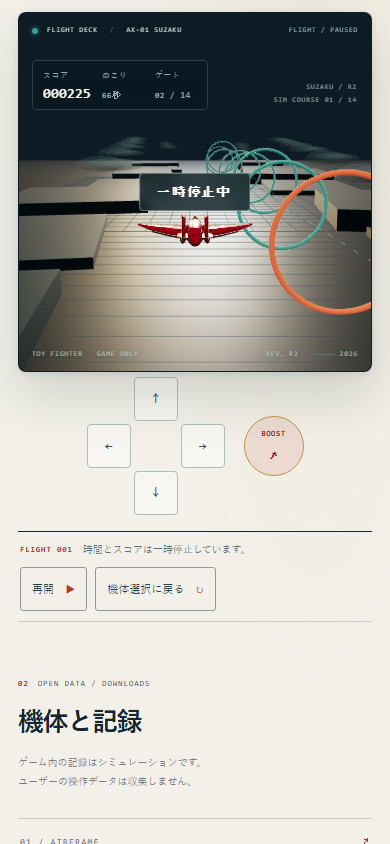
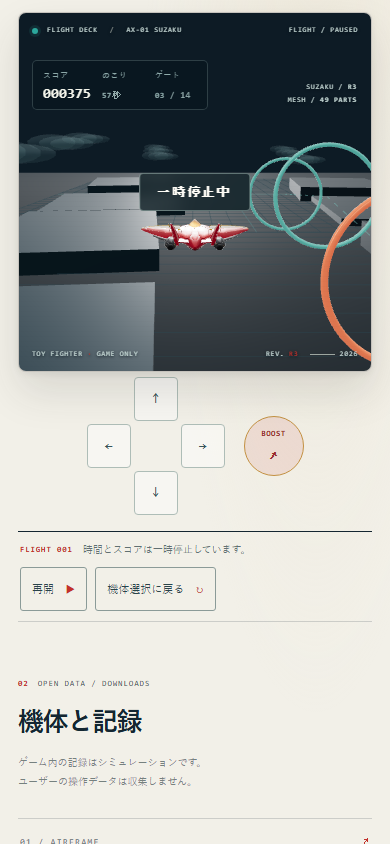
Record verified SUZAKU r3 public release [skip ci]

diff --git a/docs/reproduce.md b/docs/reproduce.md
@@ -43,7 +43,7 @@ npx playwright install chromium
 npm run test:browser
 ~~~
 
-`npm test` はリプレイを含むNodeテスト15件すべてに合格しました。本番ビルドも合格しましたが、JavaScriptチャンクサイズ572 kBの警告が1件あります。カタログ照合は公開ファイル20件とハッシュ付きソース21件で合格しました。FreeCAD形状、ネイティブ形式・STEP・STLの再読み込み、主翼の対称性、メッシュの決定性確認も合格しています。自動Chromium確認は12/12件に合格しました。タッチ操作はエミュレーションで、スマートフォン実機では未確認です。[成功レポート](../evidence/browser-automated.json)と、初回のモバイルタッチ確認が停止した[失敗レポート](../evidence/suzaku-r3-browser-first-failure.json)を参照してください。CIと公開サイトの確認は未実施です。r2の確認記録は[履歴フォルダー](../evidence/history/suzaku-r2/)にあります。
+`npm test` はリプレイを含むNodeテスト15件すべてに合格しました。本番ビルドも合格しましたが、JavaScriptチャンクサイズ572 kBの警告が1件あります。カタログ照合は公開ファイル20件とハッシュ付きソース21件で合格しました。FreeCAD形状、ネイティブ形式・STEP・STLの再読み込み、主翼の対称性、メッシュの決定性確認も合格しています。自動Chromium確認は12/12件に合格しました。タッチ操作はエミュレーションで、スマートフォン実機では未確認です。[成功レポート](../evidence/browser-automated.json)と、初回のモバイルタッチ確認が停止した[失敗レポート](../evidence/suzaku-r3-browser-first-failure.json)を参照してください。[GitHub CIとPages公開](https://github.com/onizuka-agi-co/onizuka-aero-agi-co/actions/runs/39448567448)が成功しました。公開サイトでもブラウザ12項目が通過し、匿名取得した42ファイルのサイズとSHA-256が一致しました（[操作記録](../evidence/browser-public.json)、[照合記録](../evidence/publication.json)）。r2の確認記録は[履歴フォルダー](../evidence/history/suzaku-r2/)にあります。
 
 standardとlongwingをC案画像と見比べ、真上、側面、前方3/4、後方3/4から肩の量感、キャノピー、翼面、側面の暗色部、後部ポッド、尾翼を確認します。最終確認では、架空のコレクショントイとして6つの主要条件を満たすと評価されました。これは定性的評価であり、ユーザー承認や写真のような完全再現を意味しません。[コンセプト確認記録](../evidence/suzaku-concept-review.json)と[最終CADビュー](../evidence/suzaku-r3-cad-final.jpg)に記録しています。形状レポートの合格だけで、C案との見た目の近さを判定しないでください。
 
@@ -62,7 +62,7 @@ node .\scripts\verify-public.mjs
 
 ### 記録の解釈
 
-形状値は任意設計単位です。アーケード記録は模擬ゲーム状態です。どちらも実際の飛行性能や航空宇宙工学の評価として解釈しないでください。Chromiumのタッチ確認はエミュレーションで、スマートフォン実機とは異なります。r3の形状、Nodeテスト、本番ビルド、カタログ、ローカルブラウザ確認は合格しました。CIと公開確認は未実施です。r2の結果は[履歴フォルダー](../evidence/history/suzaku-r2/)で確認できます。
+形状値は任意設計単位です。アーケード記録は模擬ゲーム状態です。どちらも実際の飛行性能や航空宇宙工学の評価として解釈しないでください。Chromiumのタッチ確認はエミュレーションで、スマートフォン実機とは異なります。r3の形状、Nodeテスト、本番ビルド、カタログ、ローカルブラウザ確認は合格しました。[GitHub CIとPages公開](https://github.com/onizuka-agi-co/onizuka-aero-agi-co/actions/runs/39448567448)が成功しました。公開サイトでもブラウザ12項目が通過し、匿名取得した42ファイルのサイズとSHA-256が一致しました（[操作記録](../evidence/browser-public.json)、[照合記録](../evidence/publication.json)）。r2の結果は[履歴フォルダー](../evidence/history/suzaku-r2/)で確認できます。
 
 ## English
 
@@ -105,7 +105,7 @@ npx playwright install chromium
 npm run test:browser
 ~~~
 
-All 15 Node tests passed, including replay tests. The production build passed with one 572 kB JavaScript chunk-size warning. Catalog verification passed for 20 public files and 21 hashed source entries. FreeCAD shape checks, native/STEP/STL reopen checks, mirrored-wing symmetry, and deterministic mesh regeneration passed. Automated Chromium checks passed 12/12 with an emulated touch viewport; see the [passing browser report](../evidence/browser-automated.json). Physical phones are untested. An initial mobile-touch failure is retained in the [first-failure report](../evidence/suzaku-r3-browser-first-failure.json). `npm run test:browser` uses the built app and starts its own Vite preview on port 4188. You do not need to start `npm run preview` separately. CI and public-site verification are pending. The archived r2 results do not verify the current revision.
+All 15 Node tests passed, including replay tests. The production build passed with one 572 kB JavaScript chunk-size warning. Catalog verification passed for 20 public files and 21 hashed source entries. FreeCAD shape checks, native/STEP/STL reopen checks, mirrored-wing symmetry, and deterministic mesh regeneration passed. Automated Chromium checks passed 12/12 with an emulated touch viewport; see the [passing browser report](../evidence/browser-automated.json). Physical phones are untested. An initial mobile-touch failure is retained in the [first-failure report](../evidence/suzaku-r3-browser-first-failure.json). `npm run test:browser` uses the built app and starts its own Vite preview on port 4188. You do not need to start `npm run preview` separately. [GitHub CI and Pages deployment](https://github.com/onizuka-agi-co/onizuka-aero-agi-co/actions/runs/39448567448) passed for r3. All 12 browser checks passed on the public site, and 42 anonymous downloads matched byte sizes and SHA-256 hashes. See the [browser report](../evidence/browser-public.json) and [publication record](../evidence/publication.json). The archived r2 results do not verify the current revision.
 
 Compare `standard` and `longwing` with the selected C concept from the top, side, front three-quarter, and rear three-quarter views. Check shoulder volume, canopy, wing panels, dark side recesses, rear pods, and fins. The final qualitative review accepted all six salient criteria for a fictional toy interpretation; it does not claim user approval or exact photoreal reproduction. See the [concept review](../evidence/suzaku-concept-review.json) and [final CAD views](../evidence/suzaku-r3-cad-final.jpg). A passing geometry report alone does not establish visual similarity to the concept.
 
@@ -124,4 +124,4 @@ node .\scripts\verify-public.mjs
 
 ### Interpret the records
 
-Geometry values use arbitrary design units. Arcade records are simulated game state. Do not interpret either as actual flight performance or aerospace engineering results. R3 geometry, Node, build, catalog, and local Chromium checks passed. CI and publication verification are pending. The [archived r2 records](../evidence/history/suzaku-r2/) describe the earlier revision only.
+Geometry values use arbitrary design units. Arcade records are simulated game state. Do not interpret either as actual flight performance or aerospace engineering results. R3 geometry, Node, build, catalog, and local Chromium checks passed. [GitHub CI and Pages deployment](https://github.com/onizuka-agi-co/onizuka-aero-agi-co/actions/runs/39448567448) passed for r3. All 12 browser checks passed on the public site, and 42 anonymous downloads matched byte sizes and SHA-256 hashes. See the [browser report](../evidence/browser-public.json) and [publication record](../evidence/publication.json). The [archived r2 records](../evidence/history/suzaku-r2/) describe the earlier revision only.

diff --git a/README.md b/README.md
@@ -1,6 +1,6 @@
 # ONIZUKA AERO AGI Co.
 
-[日本語](README.ja.md) · [Published r2 game](https://onizuka-agi-co.github.io/onizuka-aero-agi-co/) · [Published r2 CAD preview](https://onizuka-agi-co.github.io/onizuka-aero-agi-co/assets/ax01/standard/preview.svg)
+[日本語](README.ja.md) · [Play SUZAKU r3](https://onizuka-agi-co.github.io/onizuka-aero-agi-co/) · [SUZAKU r3 CAD preview](https://onizuka-agi-co.github.io/onizuka-aero-agi-co/assets/ax01/standard/preview.svg)
 
 ONIZUKA AERO AGI Co. publishes original aviation-themed digital art, geometry checks, and a civilian arcade game as reproducible artifacts. A human mission owner sets the mission and publication policy.
 
@@ -18,11 +18,11 @@ The r3 [geometry report](public/data/geometry-report.json) passes shape validity
 
 The r3 arcade summary contains three generated synthetic-input records. `npm test` passed all 15 Node tests, including replay tests. See the [arcade summary](public/data/arcade-summary.json).
 
-The r3 production build and catalog verification passed. The build emitted a 572 kB chunk-size warning; the catalog verifies 20 public files and 21 hashed source entries. Automated Chromium validation passed 12/12 checks with an emulated touch viewport; see the [passing browser report](evidence/browser-automated.json). Physical phones are untested. An earlier mobile-touch failure is retained in the [first-failure report](evidence/suzaku-r3-browser-first-failure.json). CI and public-site verification are pending. The r2 build, browser, CI, and publication results are historical in [evidence/history/suzaku-r2](evidence/history/suzaku-r2/); the published game and CAD preview links above still point to r2.
+The r3 production build and catalog verification passed. The build emitted a 572 kB chunk-size warning; the catalog verifies 20 public files and 21 hashed source entries. Automated Chromium validation passed 12/12 checks with an emulated touch viewport; see the [passing browser report](evidence/browser-automated.json). Physical phones are untested. An earlier mobile-touch failure is retained in the [first-failure report](evidence/suzaku-r3-browser-first-failure.json). [GitHub CI and Pages deployment](https://github.com/onizuka-agi-co/onizuka-aero-agi-co/actions/runs/39448567448) passed for r3. All 12 browser checks passed on the public site, and 42 anonymous downloads matched byte sizes and SHA-256 hashes. See the [browser report](evidence/browser-public.json) and [publication record](evidence/publication.json). The r2 build, browser, CI, and publication results are historical in [evidence/history/suzaku-r2](evidence/history/suzaku-r2/); the game and CAD preview links above now serve r3.
 
 ## Reproduce
 
-The r3 geometry, Node, build, catalog, and automated Chromium checks passed. CI and public-site verification are pending. See [docs/reproduce.md](docs/reproduce.md) for commands and evidence. The r2 public-site and anonymous-download reports remain in [evidence/history/suzaku-r2](evidence/history/suzaku-r2/).
+The r3 geometry, Node, build, catalog, and automated Chromium checks passed. [GitHub CI and Pages deployment](https://github.com/onizuka-agi-co/onizuka-aero-agi-co/actions/runs/39448567448) passed for r3. All 12 browser checks passed on the public site, and 42 anonymous downloads matched byte sizes and SHA-256 hashes. See the [browser report](evidence/browser-public.json) and [publication record](evidence/publication.json). See [docs/reproduce.md](docs/reproduce.md) for commands and evidence. The r2 public-site and anonymous-download reports remain in [evidence/history/suzaku-r2](evidence/history/suzaku-r2/).
 
 Install dependencies with `npm ci`, run the checks with `npm test`, and build with `npm run build`. The [reproduction guide](docs/reproduce.md) gives the CAD, data, and browser-validation commands.
 
